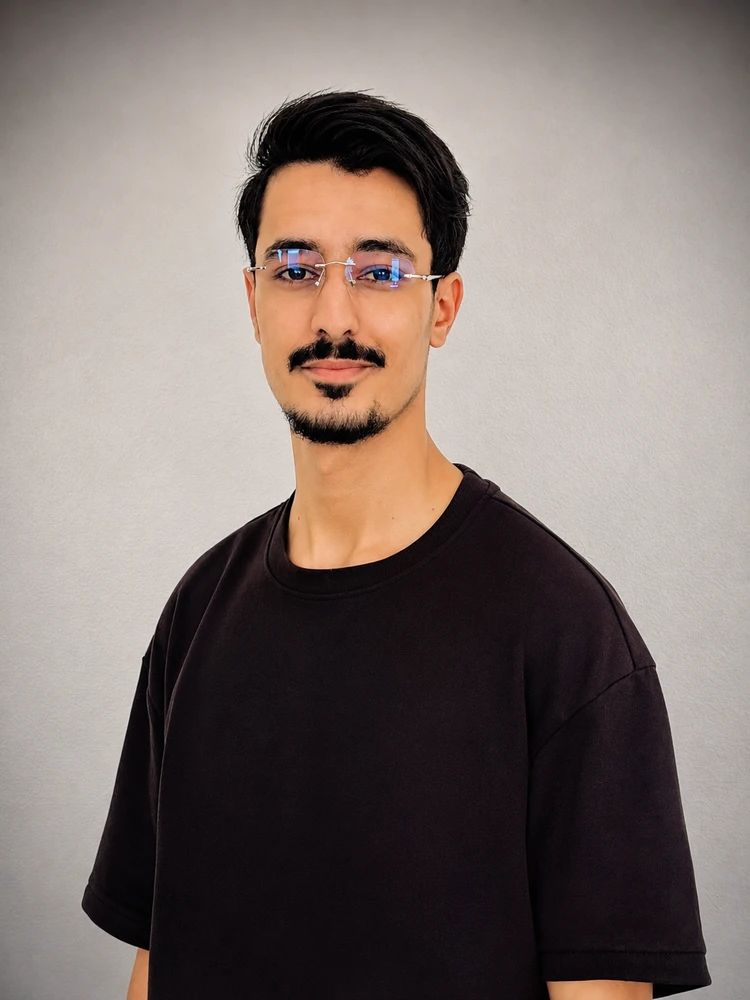
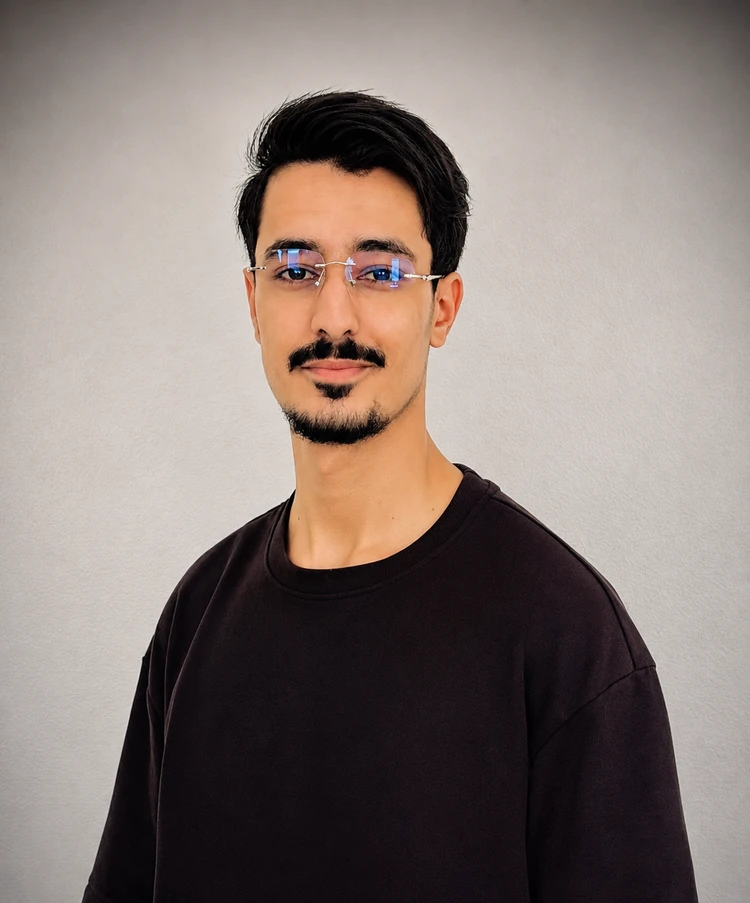
feat(team): add Yahya LOUKILI as Consultant and update Hiba GHADFI's role

Changed region(s): [[0.0613, 0.093, 0.9507, 1.0], [0.0, 0.9922, 0.0613, 1.0]]

diff --git a/src/data/team.ts b/src/data/team.ts
@@ -41,6 +41,16 @@ const team2026_2027: TeamMember[] = [
         },
     },
     {
+        name: "Yahya LOUKILI",
+        role: "Consultant",
+        image: "/assets/team/2026-2027/yahya_loukili.webp",
+        links: {
+            gmail: "loukiliyahya17@gmail.com",
+            linkedin: "https://www.linkedin.com/in/loukili-yahya-009338313/",
+            instagram: "https://www.instagram.com/loukyahya_",
+        },
+    },
+    {
         name: "Ayoub EL AANBRI",
         role: "Treasurer",
         image: "/assets/team/2026-2027/ayoub_el-aanbri.webp",
@@ -186,7 +196,7 @@ const team2026_2027: TeamMember[] = [
     },
     {
         name: "Hiba GHADFI",
-        role: "Video Editor",
+        role: "Photographer & Video Editor",
         image: "/assets/team/2026-2027/hiba_ghadfi.webp",
         links: {
             gmail: "hibaghadfi0@gmail.com",
